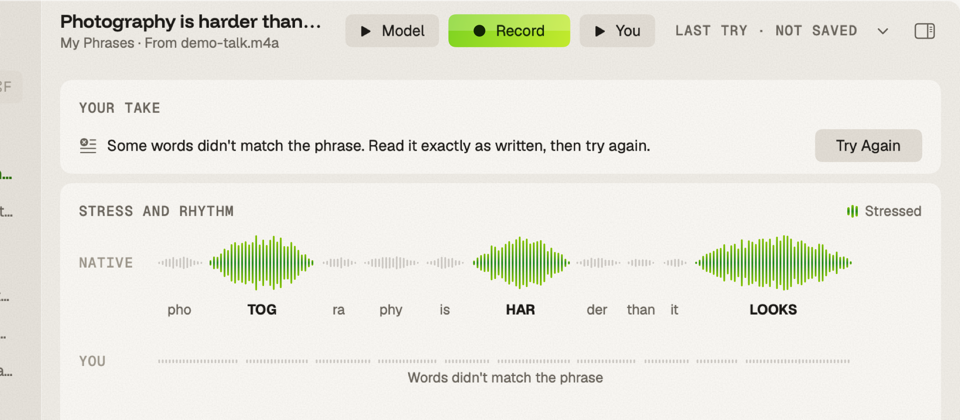
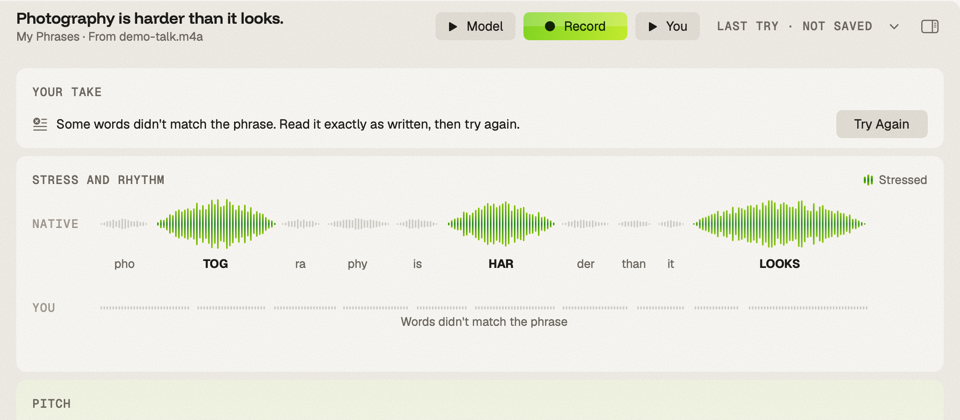
Refresh the committed screenshots at the real 1200 × 800 pt geometry, add the 960 pt fixture, fit contact-sheet tiles

diff --git a/scripts/make-contact-sheet.swift b/scripts/make-contact-sheet.swift
@@ -40,7 +40,10 @@ for (index, file) in names.enumerated() {
     let top = gap + CGFloat(row) * (tile.height + caption + gap)
     let y = size.height - top - tile.height
     if let image = NSImage(contentsOf: dir.appendingPathComponent(file)) {
-        image.draw(in: NSRect(x: x, y: y, width: tile.width, height: tile.height))
+        // Aspect-fit, top-left: a narrow fixture's frame (960 × 732 pt) isn't stretched to the 3:2 tile.
+        let fit = min(tile.width / image.size.width, tile.height / image.size.height)
+        let drawn = CGSize(width: image.size.width * fit, height: image.size.height * fit)
+        image.draw(in: NSRect(x: x, y: y + tile.height - drawn.height, width: drawn.width, height: drawn.height))
     }
     let label = String(file.dropLast(suffix.count)) as NSString
     label.draw(at: NSPoint(x: x, y: y - caption + 7), withAttributes: [.font: font, .foregroundColor: ink])

diff --git a/docs/screenshots/ui-shell/README.md b/docs/screenshots/ui-shell/README.md
@@ -4,7 +4,9 @@ Reviewed frames from the screenshot run, shrunk for the repo (the full 2400 × 1
 
 - `result-feedback-{light,dark}.png`, `tooQuiet-{light,dark}.png`: two of the four primary states, full window at 1x
   (1200 × 800).
-- `fixes/<fixture>-{light,dark}.png`: 1x crops of the region each Designer fix touches
+- `narrow-inspector-open-{light,dark}.png`: the narrow-window regression fixture (fixes round 5), full window at 1x
+  (960 × 732).
+- `fixes/<fixture>-light.png`: 1x crops of the region each Designer fix touches
   (`inc-requiredMeasureUnavailable-lowConfidence`, `ncd-insertionsPresent`, `tp-clipped`, `tp-wordsDontMatch`,
   `noVoicedFrames`).
 - `round3/<fixture>-light.png`: 1x crops for the fixes round 3 (Addendum r3): `inc-targetWordsMissing-two` and
@@ -12,7 +14,8 @@ Reviewed frames from the screenshot run, shrunk for the repo (the full 2400 × 1
 - `round4/<fixture>-light.png`: 1x crops of the five row fixtures, one row and one difference each (fixes round 4):
   `rows-contrast`, `rows-range`, `rows-final-direction-higher`, `rows-final-direction-lower`,
   `rows-too-much-contrast`. They replace round 3's row crops; their dark twins are in the contact sheet.
-- `contact-sheet-{light,dark}.png`: every fixture, 220 px tiles (`SHEET_COLUMNS=8 SHEET_TILE_WIDTH=220`).
+- `contact-sheet-{light,dark}.png`: every fixture, 220 px tiles (`SHEET_COLUMNS=8 SHEET_TILE_WIDTH=220`), each frame
+  fitted to its tile without stretching.
 
 Round 3 (2026-11-23) refreshed the contact sheets, `result-feedback-dark` (Addendum r3 B6, your bars' dark tone),
 `fixes/noVoicedFrames-*` (B9), `fixes/tp-wordsDontMatch-*` (B7) and `fixes/inc-requiredMeasureUnavailable-lowConfidence-dark`
@@ -23,5 +26,13 @@ PNGs were byte-identical. The other committed frames are unchanged from the fixe
 Round 4 (2026-11-23) refreshed the contact sheets (now 64 fixtures) and replaced round 3's four row crops with
 `round4/`, all from the test VM, from two runs whose 128 PNGs were byte-identical.
 
-Frames are downscaled with `sips`, cropped losslessly, and re-encoded losslessly as 8-bit RGB PNG (zlib level 9,
-per-row filters). Renders come only from CI or the test VM, never the host.
+Round 5 (2026-11-23) refreshed every committed frame. Round 4's frames held a ~1020 × 684 pt window scaled up to
+2400 × 1600, because the VM's screen shrank the window; every frame now shows the real 1200 × 800 pt window (or
+the fixture's own size). Round 5 also added `narrow-inspector-open-*`, and dropped the `fixes/*-dark` crops to keep the folder
+under 10 MiB (their dark twins are in the dark contact sheet). The crops cover the same regions in the new geometry:
+`fixes/` and `round3/` are the detail column (x 240 to 1200 pt) from the top (`noVoicedFrames` from y 400, the pitch
+card), and `round4/` is x 250 to 1190, y 60 to 780. All of them come from the test VM, and two runs gave
+byte-identical PNGs (130 frames).
+
+Frames are downscaled, cropped and re-encoded losslessly as 8-bit RGB PNG (zlib level 9, per-row filters). Up to
+round 4 the downscale used `sips`; round 5 used Core Graphics with high-quality interpolation. Renders come only from CI or the test VM, never the host.
